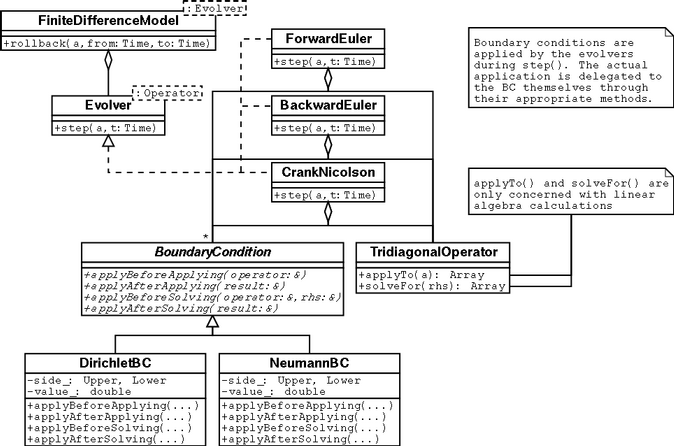
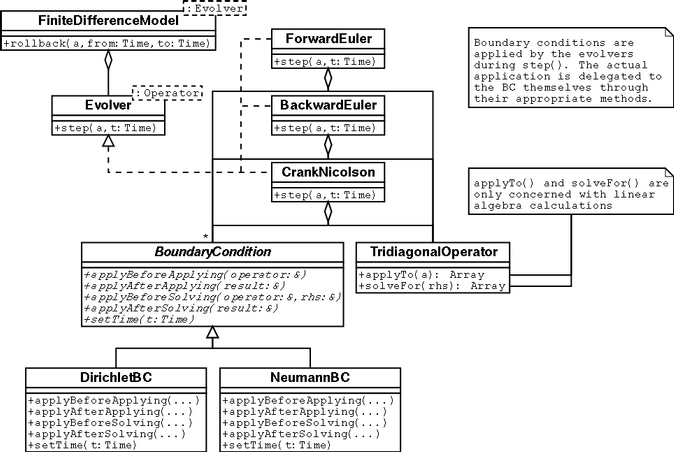
BC time dependence added
git-svn-id: https://quantlib.svn.sourceforge.net/svnroot/quantlib/trunk@1554 8618b1d8-e22c-0410-b026-96a5dba3e089

diff --git a/QuantLib-site/quep/quep002.html b/QuantLib-site/quep/quep002.html
@@ -28,15 +28,7 @@ the finite-difference model as much as the differential operator
 and the time scheme.</p>
 
 <h2>Current implementation</h2>
-
-<p>The present implementation of FiniteDiffrenceMethod contains an
-Evolver, which in turn contains an Operator. BC:s are set to the
-operator before the latter is passed to the model which in turn
-passes it to the evolver. Setting a BC immediately modifies an
-operator; also, BC:s are stored in the operator and applied to the
-input and/or output array when the applyTo() or solveFor() methods
-are invoked.</p>
-
+<p>The present implementation of FiniteDifferenceMethod contains an Evolver, which in turn contains an Operator. BC:s are set to the operator before the latter is passed to the model which in turn passes it to the evolver. Setting a BC immediately modifies an operator; also, BC:s are stored in the operator and applied to the input and/or output array when the applyTo() or solveFor() methods are invoked.</p>
 <div class="c1"><img src="quep002a.png" width="683" height="319"
 alt="UML diagram"></div>
 
@@ -63,29 +55,26 @@ reason, care must be taken that the implementation of the operator
 algebra propagates the BC:s from D to (dt*D) to (I+(dt*D)).</p>
 
 <h2>Proposed implementation</h2>
-
-<p>A polymorphic BoundaryCondition class is defined which
-encapsulates the BC logic. Its interface is defined so that it
-should be able to manage different kind of required modifications,
-namely, ones that should be applied before and/or after the
-application of the operator or its inverse. Such methods act
-simultaneously on the operator and the right-hand side of the
-equation.</p>
+<p>A polymorphic BoundaryCondition class is defined which encapsulates the BC 
+logic. Its interface is defined so that it should be able to manage different 
+kind of required modifications, namely, ones that should be applied before 
+and/or after the application of the operator or its inverse. Such methods act 
+simultaneously on the operator and the right-hand side of the equation. Also, 
+a setTime() interface is provided which allows to manage time-dependent BC:s. 
+</p>
 
 <div class="c1"><img src="quep002b.png" width="674" height="446"
 alt="UML diagram"></div>
 
-<p>The BC:s are passed to the model together with the operator and
-are stored into the evolver. It is the responsibility of the
-evolver to call the appropriate BC methods inside its step()
-method.</p>
+<p>The BC:s are passed to the model together with the operator and are stored 
+into the evolver. It is the responsibility of the evolver to call the 
+appropriate BC methods inside its step() method.</p>
 
-<p>Finally, the TridiagonalOperator would not be concerned with
-BC:s. Its applyTo() and solveFor() methods would only implement the
-corresponding linear algebra calculations.</p>
+<p>Finally, the TridiagonalOperator would not be concerned with BC:s. Its 
+applyTo() and solveFor() methods would only implement the corresponding 
+linear algebra calculations.</p>
 
-<p>The framework would be implemented as in the following
-pseudo-code:</p>
+<p>The framework would be implemented as in the following pseudo-code:</p>
 
 <pre>
 class FiniteDifferenceMethod {
@@ -102,9 +91,10 @@ class ForwardEuler {
     ForwardEuler(const Operator&amp; L, ??? boundaryConditions)
     : L_(L), boundaryConditions_(boundaryConditions) { ... }
     void step(Array&amp; a, Time t) {
-        ... // set time if needed
+        ... // call L.setTime(t) if needed
         // actual operator is O = I-dt*L
         for every boundary condition
+            bc.setTime(t);
             bc.applyBeforeApplying(O);
         a = O.applyTo(a);
         for every boundary condition
@@ -117,9 +107,10 @@ class BackwardEuler {
     BackwardEuler(const Operator&amp; L, ??? boundaryConditions)
     : L_(L), boundaryConditions_(boundaryConditions) { ... }
     void step(Array&amp; a, Time t) {
-        ... // set time if needed
+        ... // call L.setTime(t-dt) if needed
         // actual operator is O = I+dt*L
         for every boundary condition
+            bc.setTime(t-dt);
             bc.applyBeforeSolving(O,a);
         a = O.solveFor(a);
         for every boundary condition
@@ -132,14 +123,17 @@ class CrankNicolson {
     CrankNicolson(const Operator&amp; L, ??? boundaryConditions)
     : L_(L), boundaryConditions_(boundaryConditions) { ... }
     void step(Array&amp; a, Time t) {
-        ... // set time if needed
+        ... // call L.setTime(t) if needed
         // actual operators are O1 = I-(dt/2)*L and O2 = I+(dt/2)*L
         for every boundary condition
+            bc.setTime(t);
             bc.applyBeforeApplying(O1);
         a = O1.applyTo(a);
         for every boundary condition
             bc.applyAfterApplying(a);
+
         for every boundary condition
+            bc.setTime(t-dt);
             bc.applyBeforeSolving(O2,a);
         a = O2.solveFor(a);
         for every boundary condition
@@ -147,10 +141,6 @@ class CrankNicolson {
     }
 };
 </pre>
-
-<br>
-<br>
- 
 
 <p>The missing piece in the above code concerns the way to pass the
 BC:s to a model. This must take into account that we do not know in
@@ -188,6 +178,10 @@ class CompositeBC : public BoundaryCondition {
     void add(const Handle&lt;BoundaryCondition&gt;&amp; c) {
         bc_.push_back(c);
     }
+    void setTime(Time t) {
+        for (every BC in the list)
+            i->setTime(t);
+    }
     void applyBeforeApplying(Operator&amp; O) {
         for (every BC in the list)
             i-&gt;applyBeforeApplying(O);
@@ -213,9 +207,8 @@ class FiniteDifferenceMethod {
  
 
 <h2>Acknowledgements</h2>
-
-Many thanks to Nicolas Di C&eacute;sar&eacute; for the fruitful
-discussion. 
+Many thanks to Nicolas Di C&eacute;sar&eacute; for the fruitful 
+discussion---which is in fact still ongoing and still fruitful.
 
 <h2>Feedback</h2>
 
